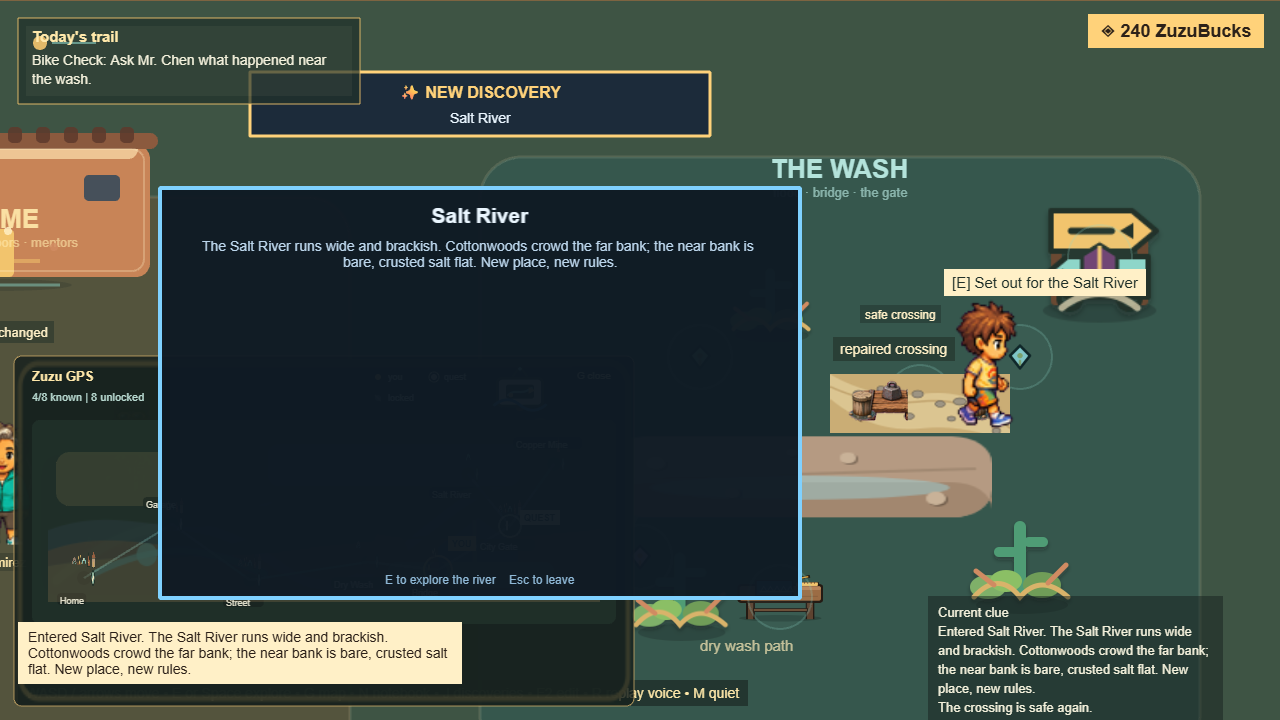
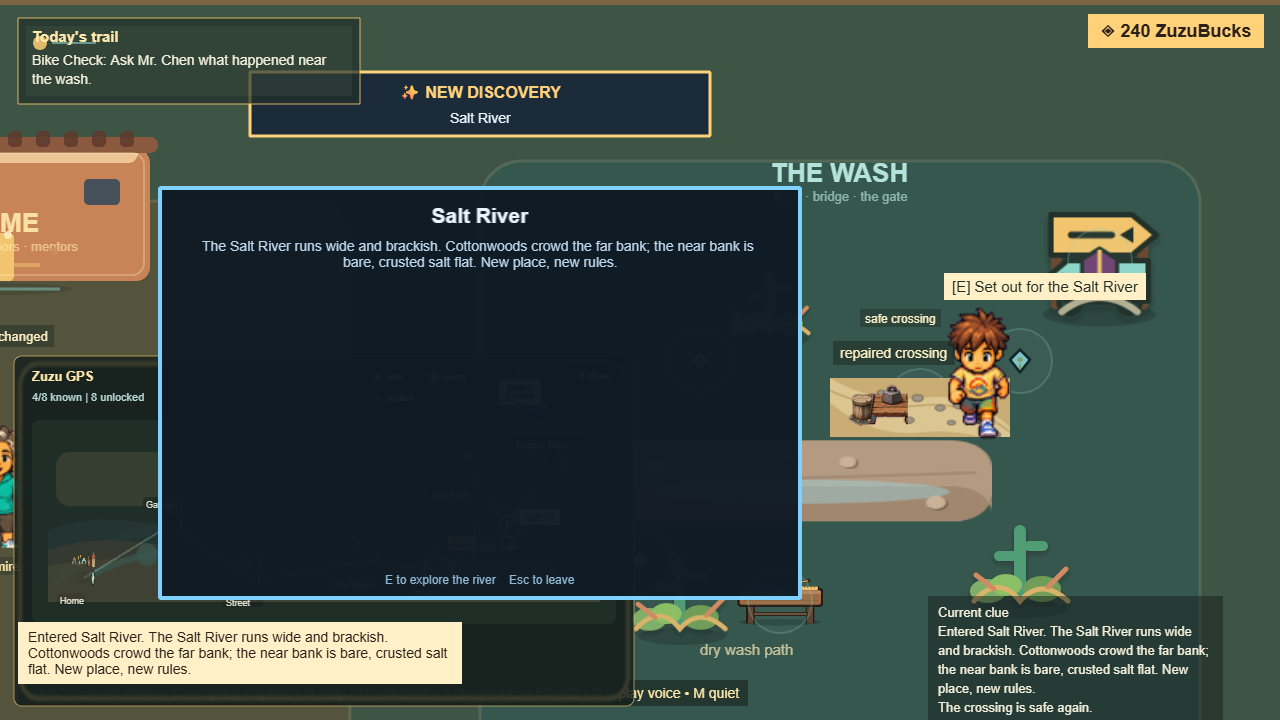
Salt River: emit biome_acceptance_report.json for EB biome_depth gate
The biome reachability e2e now writes a structured acceptance report (reachable,
siteCount, complete, zuzuBucks payoff) that Executive Brain's bikebrowser_act1
auditor reads for its new biome_depth dimension — so the autonomous loop can
detect and drive a shallow biome to a full ecology-quality loop, and a regression
that strips Salt River's depth flips the gate red.

diff --git a/tests/e2e/game-rebuild.biome-reachability.spec.js b/tests/e2e/game-rebuild.biome-reachability.spec.js
@@ -141,5 +141,20 @@ test.describe('Player reachability — Salt River biome', () => {
     expect(payoff.complete, 'biome loop completed through play').toBe(true);
     expect(payoff.saltbush && payoff.cottonwood && payoff.corrosion, 'biome discoveries recorded as payoff').toBe(true);
     expect(payoff.zuzuBucks, 'completing the Salt River loop pays ZuzuBucks').toBeGreaterThan(0);
+
+    // Acceptance evidence for the Brain auditor's biome_depth dimension: proof that
+    // an unlocked biome is a full ecology-quality loop reached by a real player.
+    const { writeFileSync } = await import('node:fs');
+    writeFileSync(`${captureDir}/biome_acceptance_report.json`, JSON.stringify({
+      biome: 'salt_river',
+      reachable: true,
+      playerVisibleWalkthrough: true,
+      siteCount: payoff.resolved,
+      complete: payoff.complete,
+      zuzuBucks: payoff.zuzuBucks,
+      payoffReward: payoff.zuzuBucks > 0,
+      discoveries: { saltbush: payoff.saltbush, cottonwood: payoff.cottonwood, corrosion: payoff.corrosion },
+      generatedAt: new Date().toISOString(),
+    }, null, 2));
   });
 });
